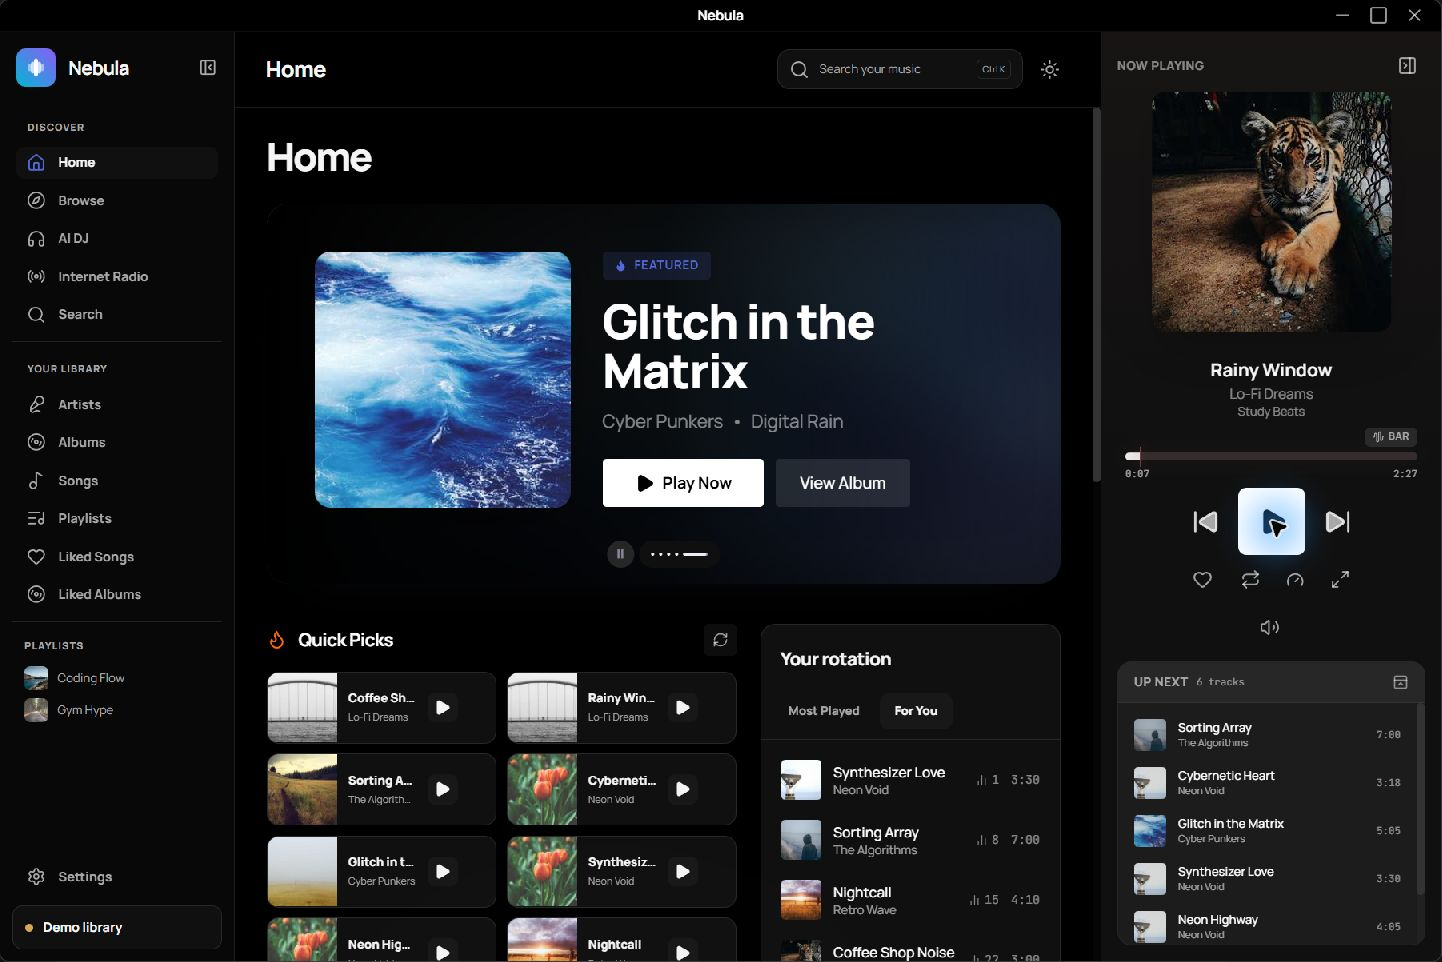
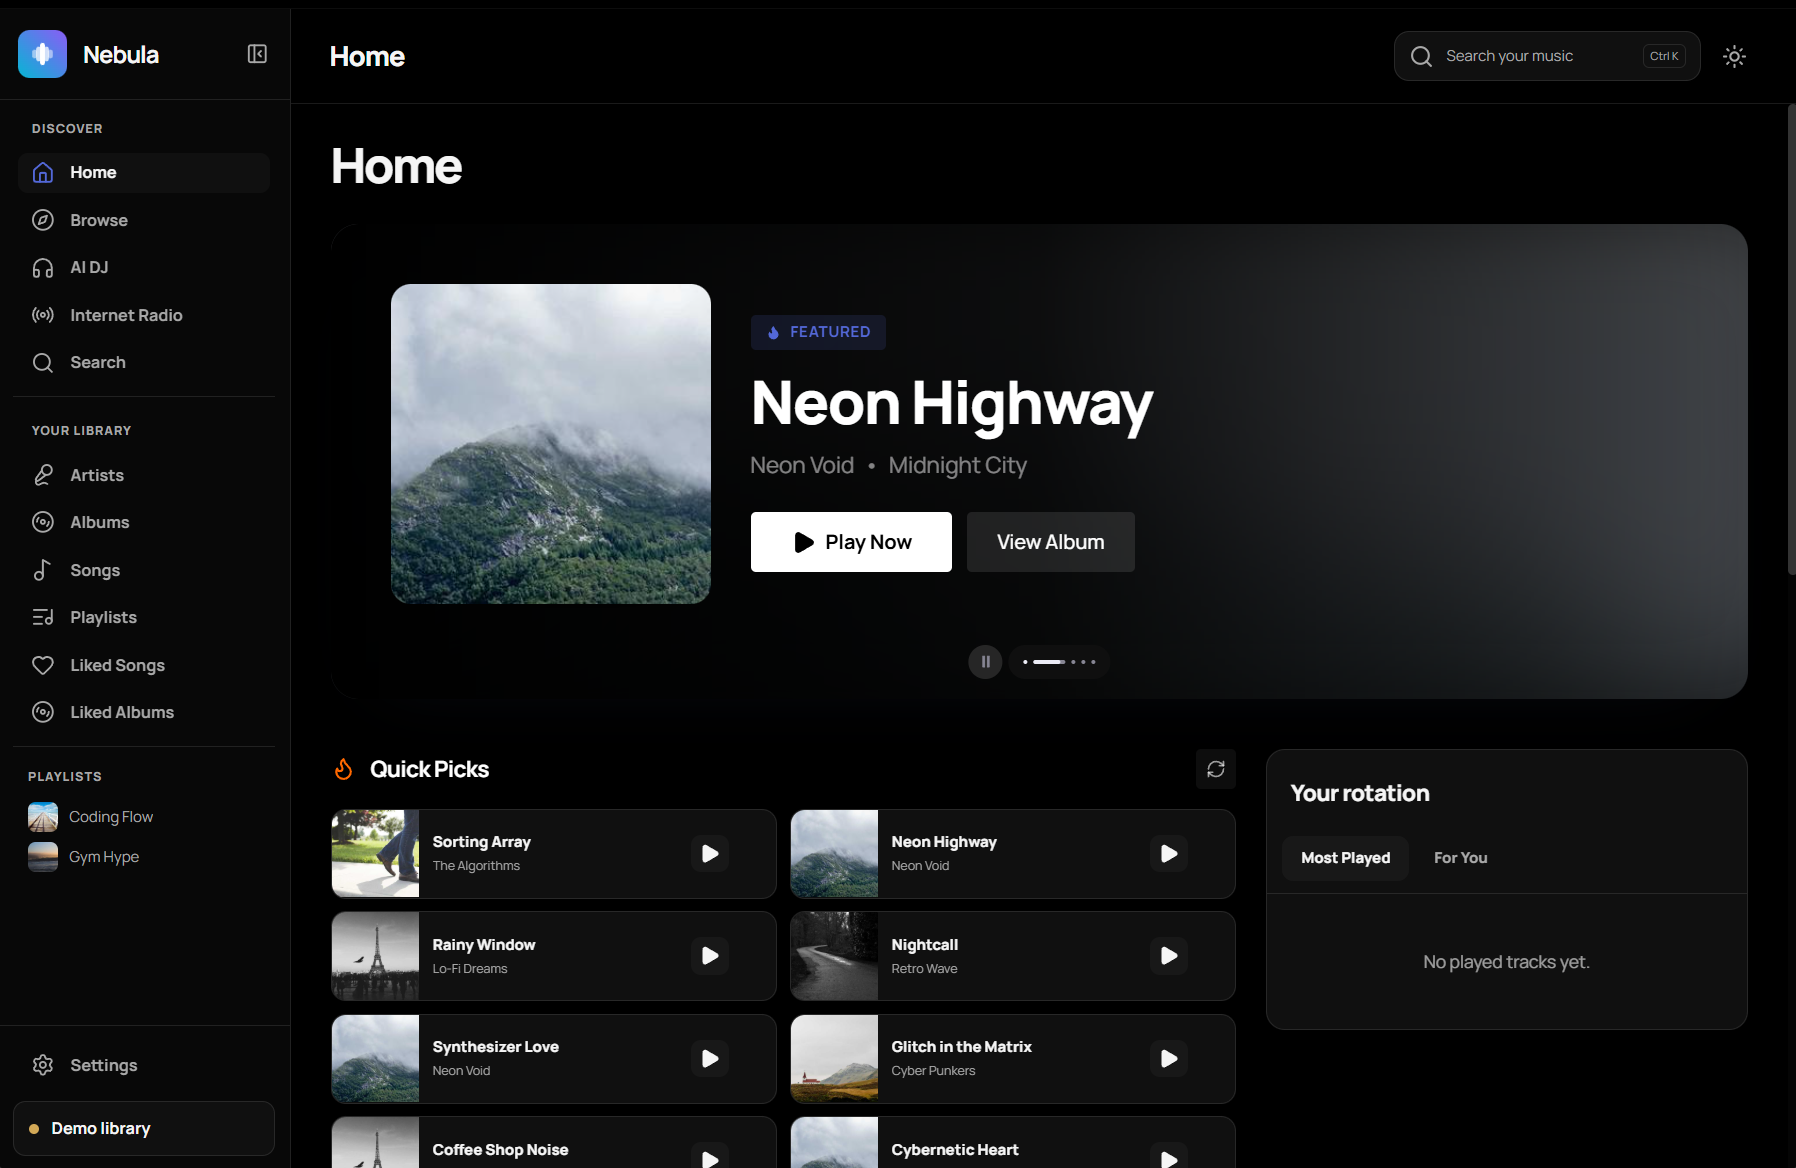
docs: refresh 3.0 screenshots and release highlights

diff --git a/constants.ts b/constants.ts
@@ -18,13 +18,17 @@ export const CHANGELOG: ChangelogEntry[] = [
   {
     version: '3.0.0',
     date: '2026-10-09',
-    title: 'Nebula 3.0',
+    title: 'Nebula 3.0 — Highlights since 2.4.6',
     changes: [
-      'Bring the redesigned library, responsive player, search and refreshed mini player to the stable channel.',
-      'Include playback recovery, account isolation, secure desktop IPC and network hardening from beta.',
-      'Update direct dependencies to current stable versions and remove known dependency vulnerabilities.',
-      'Keep optional local AI DJ exclusive to Windows; hide and disable it on web and macOS.',
-      'Release Windows x64 and macOS Apple Silicon builds together.',
+      'A redesigned interface with OLED-black and light themes, collapsible navigation, larger album artwork, and sticky album and playlist headers.',
+      'A floating playback dock and responsive Now Playing sidebar, with smooth switching between layouts and a refreshed always-on-top desktop mini player.',
+      'More detailed, seekable stereo waveforms and artwork-colored progress, plus shared speed and pitch controls across player layouts.',
+      'An expanded Home with up to 12 Quick Picks and six-track pages for Your Rotation, including your Top 50 and For You recommendations.',
+      'Refined search and library controls, with Settings organized into sections you can navigate from the keyboard.',
+      'Experimental local AI DJ on Windows: personalized sets, Michael or Heart voices, and optional verified model downloads. AI DJ is disabled and hidden on web and macOS.',
+      'More reliable long queues and crossfades, with fewer stalled streams and consistent AutoEQ preamp across music, crossfades, and radio.',
+      'Windows x64 and macOS Apple Silicon downloads, a Stable/Beta update-channel choice, and more reliable Windows taskbar playback controls.',
+      'Updated dependencies, stronger desktop security, and better separation of music-server accounts and cached libraries.',
     ],
     link: { label: 'View stable release', href: 'https://github.com/lilremark/Nebula-Music/releases/tag/v3.0.0' },
   },

diff --git a/components/WhatsNewModal.tsx b/components/WhatsNewModal.tsx
@@ -29,10 +29,10 @@ export const WhatsNewModal: React.FC = () => {
         onClick={handleClose}
       />
 
-      <div className="relative w-full max-w-lg bg-white dark:bg-neutral-900 border border-neutral-200 dark:border-white/10 rounded-2xl shadow-2xl overflow-hidden flex flex-col animate-scale-in">
+      <div className="relative w-full max-w-lg max-h-[calc(100dvh-2rem)] bg-white dark:bg-neutral-900 border border-neutral-200 dark:border-white/10 rounded-2xl shadow-2xl overflow-hidden flex flex-col animate-scale-in">
 
         {/* Header */}
-        <div className="relative p-8 pb-6 overflow-hidden border-b border-neutral-200 dark:border-white/5 bg-gradient-to-br from-neutral-50 to-neutral-100 dark:from-neutral-800/50 dark:to-neutral-900/50">
+        <div className="relative p-8 pb-6 shrink-0 overflow-hidden border-b border-neutral-200 dark:border-white/5 bg-gradient-to-br from-neutral-50 to-neutral-100 dark:from-neutral-800/50 dark:to-neutral-900/50">
           <div className="absolute inset-0 bg-grid-white/[0.02] dark:bg-grid-white/[0.02] bg-[length:20px_20px]" />
 
           <button
@@ -57,7 +57,7 @@ export const WhatsNewModal: React.FC = () => {
         </div>
 
         {/* Content */}
-        <div className="p-8 pt-6 flex-1 max-h-[60vh] overflow-y-auto custom-scrollbar bg-neutral-50 dark:bg-neutral-900/50">
+        <div className="p-8 pt-6 flex-1 min-h-0 max-h-[60vh] overflow-y-auto custom-scrollbar bg-neutral-50 dark:bg-neutral-900/50">
           <h3 className="text-base font-semibold text-neutral-900 dark:text-white mb-6 flex items-center justify-center">
             {currentLog.title}
           </h3>
@@ -80,7 +80,7 @@ export const WhatsNewModal: React.FC = () => {
         </div>
 
         {/* Footer */}
-        <div className="p-6 border-t border-neutral-200 dark:border-white/5 bg-neutral-50 dark:bg-neutral-900 space-y-3">
+        <div className="p-6 shrink-0 border-t border-neutral-200 dark:border-white/5 bg-neutral-50 dark:bg-neutral-900 space-y-3">
           {currentLog.link && (
             <a
               href={currentLog.link.href}

diff --git a/docs/release/v3.0.0.md b/docs/release/v3.0.0.md
@@ -1,26 +1,66 @@
 ## Nebula 3.0
 
-This stable release integrates the beta line into main with the redesigned
-library, responsive players, refined search, expanded Quick Picks, paginated
-rotation, and refreshed native mini player. Playback recovery, account-scoped
-caches, desktop IPC hardening, secure redirects and persistence fixes are included.
+Nebula 3.0 brings the beta series to the stable channel. These are the major
+changes since **2.4.6**, the previous stable release.
 
-All direct npm dependencies were checked against the registry's latest stable
-versions on October 9, 2026. Updated dependencies and an ONNX installer proxy
-override remove the known advisory chain; the complete npm audit reports zero
-known vulnerabilities. This is a dependency scan and focused code review, not
-a guarantee that every application vulnerability has been eliminated.
+### A redesigned interface
 
-Optional local AI DJ is exclusive to Windows x64. Web and macOS hide its
-navigation and settings, expose no DJ capability, and cannot start inference
-or download models. Windows users must explicitly download models and start a
-session; it remains an experimental feature.
+- OLED-black and light themes, a collapsible navigation sidebar, and layouts
+  that adapt to smaller windows and mobile screens.
+- Larger album artwork, clearer library controls, and album/playlist headers
+  that stay visible and shrink as you scroll through the track list.
+- Refined search and Settings organized into keyboard-accessible sections.
 
-Windows x64: use `Nebula-3.0.0-setup.exe`, or the unsigned AppX package.
-macOS Apple Silicon: use `Nebula-3.0.0-arm64.dmg` or the ZIP bundle.
-Both builds are unsigned; macOS is not notarized. Windows updates install
-automatically; macOS updates link to the release for manual installation.
+### More ways to control playback
 
-README screenshots were captured with Computer Use from the real 3.0 app in
-an isolated Demo Mode profile. No personal music server or installed account
-was used.
+- A floating playback dock and responsive Now Playing sidebar, with smooth
+  switching between layouts while music keeps playing.
+- A refreshed always-on-top desktop mini player with more room for track
+  details, elapsed/total time, and the upcoming queue.
+- More detailed, seekable stereo waveforms and artwork-colored progress bars.
+- Shared speed and pitch controls across player layouts, with independent
+  pitch adjustment.
+
+### Better Home recommendations
+
+Home now shows up to **12 Quick Picks**. Your Rotation sits beside them on
+wide screens, with **six-track pages** for your Top 50 and For You picks.
+Browse every page without getting caught in a nested track scrollbar.
+
+### Experimental local AI DJ on Windows
+
+Start personalized sets from Discover, choose familiar, balanced, or discovery
+listening, and hear local commentary in the Michael or Heart voice after
+four or five completed tracks. Choose interludes between sets or speech over
+lowered music, and enable optional transcription in Discover.
+
+SmolLM3 and Kokoro models are optional, verified downloads from AI DJ Settings;
+they are excluded from the installer. No session starts until you explicitly
+start it. **AI DJ is Windows-only and is disabled and hidden on web and macOS.**
+
+### Playback reliability, audio, and security
+
+- Long queues and crossfade handoffs recover more reliably. Stale waveform
+  downloads and unused crossfade streams no longer accumulate connections.
+- AutoEQ preamp applies consistently to music, crossfades, and radio, including
+  restored profiles and smooth live adjustments.
+- Better account-specific library caches, artwork loading, and settings
+  persistence, plus stronger desktop IPC and network protections.
+- Updated dependencies with zero known findings in the full npm audit at
+  release verification. See the [focused security review](https://github.com/lilremark/Nebula-Music/blob/main/docs/security-review-2026-10-09.md)
+  for scope and limitations.
+
+### Desktop downloads and updates
+
+- **Windows x64:** `Nebula-3.0.0-setup.exe` or the AppX package. Taskbar thumbnail
+  Previous, Play/Pause, and Next controls now register reliably and stay in sync.
+- **macOS Apple Silicon:** `Nebula-3.0.0-arm64.dmg` or the ZIP bundle.
+- Choose Stable or Beta updates in Settings. Stable users receive published
+  stable releases; the Beta channel also offers prereleases.
+
+Both builds are unsigned, and macOS is not notarized. Windows may show
+SmartScreen warnings; macOS may block first launch with Gatekeeper. Windows
+updates install automatically; macOS updates open the release for manual DMG
+installation.
+
+[Full change history: 2.4.6 → 3.0.0](https://github.com/lilremark/Nebula-Music/compare/v2.4.6...v3.0.0)

diff --git a/README.md b/README.md
@@ -23,25 +23,25 @@
 
 ## Screenshots
 
-Nebula **3.0**, captured with Computer Use from the real desktop app in an
-isolated **Demo Mode** session. These screenshots use the demo library only;
-no personal music server or account is shown.
+Nebula **3.0** in **Demo Mode**, with dark and light themes, the floating
+playback dock, the Now Playing sidebar, and the full-screen player.
+These screenshots use the demo library only.
 
 <p align="center">
-  <img src="./screenshots/v3-home-demo.png" alt="Nebula 3.0 Home in Demo Mode with Quick Picks, recommendations and the now-playing sidebar" width="100%">
+  <img src="./screenshots/v3-home-demo.png" alt="Nebula 3.0 Home in dark mode with featured music, Quick Picks and Your Rotation from the demo library" width="100%">
 </p>
 
 <table>
   <tr>
-    <td width="50%"><img src="./screenshots/v3-browse-demo.png" alt="Demo library Browse with generated mixes and daily album picks"></td>
-    <td width="50%"><img src="./screenshots/v3-library-light-demo.png" alt="Demo album library in the light theme with the sidebar player"></td>
+    <td width="50%"><img src="./screenshots/v3-dock-demo.png" alt="Demo Mode Home with the floating playback dock showing Synthesizer Love"></td>
+    <td width="50%"><img src="./screenshots/v3-home-light-demo.png" alt="Demo Mode Home in the light theme with the Now Playing sidebar"></td>
   </tr>
   <tr>
-    <td align="center"><strong>Browse and discovery</strong></td>
-    <td align="center"><strong>Album library in light mode</strong></td>
+    <td align="center"><strong>Floating playback dock</strong></td>
+    <td align="center"><strong>Light theme and Now Playing sidebar</strong></td>
   </tr>
   <tr>
-    <td colspan="2"><img src="./screenshots/v3-player-demo.png" alt="Full-screen player with a demo track and playback controls" width="100%"></td>
+    <td colspan="2"><img src="./screenshots/v3-player-demo.png" alt="Full-screen player showing the demo track Synthesizer Love, artwork, seeking and speed controls" width="100%"></td>
   </tr>
 </table>
 
@@ -419,11 +419,18 @@ permitted by the music server's CORS policy.
 
 ### v3.0.0 — October 9, 2026
 
-- Promote the beta design, playback reliability, search and mini-player improvements to stable.
-- Update every direct dependency to its latest stable version and remove known npm audit findings.
-- Disable and hide AI DJ on web and macOS while retaining optional experimental Windows support.
-- Refresh README screenshots using the real app and an isolated demo library.
-- Publish Windows x64 and macOS Apple Silicon builds together.
+Highlights since **v2.4.6**, the previous stable release:
+
+- Redesigned dark and light interfaces, collapsible navigation, and sticky album/playlist headers.
+- Floating playback dock, responsive Now Playing sidebar, smooth layout switching, and refreshed native mini player.
+- Detailed stereo waveforms, artwork-colored progress, and shared speed/pitch controls.
+- Up to 12 Quick Picks and paginated Top 50 / For You rotation on Home.
+- Refined search, library controls, and keyboard-accessible Settings sections.
+- Experimental local AI DJ with optional model downloads on Windows; hidden and disabled on web/macOS.
+- More reliable long queues and crossfades, consistent AutoEQ preamp, updated dependencies, and stronger account isolation.
+- Windows x64 and macOS Apple Silicon downloads, Stable/Beta update channels, and reliable taskbar playback controls.
+
+[Full 3.0 release notes](https://github.com/lilremark/Nebula-Music/releases/tag/v3.0.0)
 
 
 ### v2.5.0-beta.26 — October 5, 2026

diff --git a/docs/security-review-2026-10-09.md b/docs/security-review-2026-10-09.md
@@ -81,8 +81,8 @@ advisories or prove all possible malicious-server behaviors are safe.
   the optional feature. Both desktop and compact mobile navigation are checked.
 - Player smoke assertion now waits for the completed dark-theme animation
   before testing its final background color.
-- Real Computer Use screenshots from a fresh Demo Mode profile, saved unchanged
-  as the README's Home, Browse, light album library and full-player images.
+- Real Computer Use screenshots from a fresh Demo Mode profile. The README
+  subsequently uses maintainer-supplied Demo Mode captures to exclude the cursor.
 
 Hosted release CI additionally builds Windows x64 and macOS arm64, runs native
 startup/platform smoke checks on both hosts, checks bundle version/architecture,
